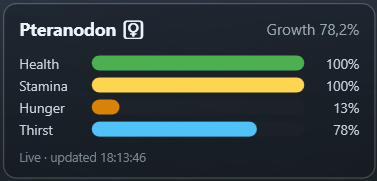
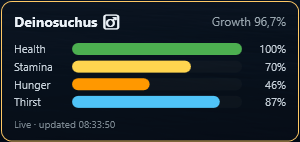
README: new showcase screenshot with per-widget crops
Replace the main screenshot with a v1.15 edit-mode shot showing all
widgets, and cut the stats panel, minimap, prime tracker and control
panel out of it for their sections. Drop the waypoint screenshot.

diff --git a/README.md b/README.md
@@ -9,7 +9,7 @@ It is **fully external**: the only thing it ever does is replay the same authent
 [![Downloads](https://img.shields.io/github/downloads/DavidKatona/PandoraOverlay/total)](https://github.com/DavidKatona/PandoraOverlay/releases)
 [![License: MIT](https://img.shields.io/github/license/DavidKatona/PandoraOverlay)](LICENSE)
 
-![The overlay in-game: stats panel and player-centered minimap while flying a Pteranodon](docs/screenshot.png)
+![The overlay in-game, in edit mode: the Prime tracker docked left, the player-centered minimap and stats panel on the right, and the control panel bottom-center, over a Deinosuchus on a night-time riverbank](docs/screenshot.png)
 
 ## Contents
 
@@ -64,6 +64,9 @@ The pasted cookie is encrypted with **Windows DPAPI** (scoped to your Windows us
 
 - The overlay starts **locked**: click-through, no focus stealing, invisible to Alt-Tab.
 - The edit-mode hotkey (**Ctrl+F7** by default) toggles **edit mode** — the panel borders turn orange, you can drag them anywhere, and a **control panel** appears (bottom-center by default, draggable like everything else) with its buttons in one row, grouped by widget: **Settings**, then **Stats** (Show/hide), **Minimap** (Show/hide, Map view, Heatmap) and **Prime** (Show/hide, Check), and finally **Lock** and **Exit**. The hotkey (or Lock) locks everything back. Positions are remembered, and the panels never change size or move between modes.
+
+  ![The edit-mode control panel: Settings, then the Stats, Minimap and Prime button groups under small captions, Lock and Exit, and the hint line underneath](docs/control-panel.png)
+
 - While dragging, panels **snap** to the screen edges, a small inset from them, and to each other — **guide lines** light up along whatever you snapped to (orange = screen, blue = the other panel). Hold **Alt** while dragging for pixel-perfect free placement.
 - You can't lose a panel off-screen: locking edit mode (or restarting the app) pulls every panel fully back into view — dragging itself stays free, so moving panels to another monitor still works.
 - **Ctrl+F4** hides/shows the whole overlay without quitting — for screenshots and cutscenes; polling continues, and the app always starts visible. **Ctrl+F5** flips the minimap view and **Ctrl+F6** flips the minimap's heatmap layer, both without entering edit mode. All four hotkeys are rebindable in Settings; the defaults deliberately avoid the game's F2 (recording) and F10 (hide HUD), and the quick toggles sit on the nearest keys.
@@ -77,7 +80,7 @@ The pasted cookie is encrypted with **Windows DPAPI** (scoped to your Windows us
 
 ### Stats panel
 
-![The stats panel: dino name and gender, growth, the four stat bars — hunger critical at 13% — and the live status line](docs/stats-panel.png)
+![The stats panel in edit mode: a male Deinosuchus at 96,7% growth, the four stat bars — health, stamina, hunger, thirst — and the live status line](docs/stats-panel.png)
 
 - The stats panel can be **hidden** entirely (control panel → Stats → Show/hide) — the app keeps running from the tray, and hotkeys and the minimap stay live. Its size is adjustable with the "Stats panel scale" slider in Settings.
 
@@ -90,14 +93,16 @@ The pasted cookie is encrypted with **Windows DPAPI** (scoped to your Windows us
 
 ### Minimap
 
+![The minimap in edit mode: the player-centered view of a river delta with the orange player arrow, and the footer showing "centered · 5,22×"](docs/minimap.png)
+
 - The **minimap** is a separate window sharing the same edit mode: drag it independently, show or hide it from the control panel. Your arrow glides between updates and rotates with your facing. It adds zero extra requests — both windows feed off the same poll.
 - Two views, toggled with the control panel's **Map view** button (or **Ctrl+F5** any time): the whole island (default), or **player-centered** (north-up, the map pans under a fixed arrow). In the centered view the mouse wheel zooms (1.25–6×) while in edit mode. Both the view and zoom are remembered (and also editable in Settings), and the footer under the map always shows the active view (and zoom).
 - Right-click the minimap in edit mode to drop a **waypoint** — the footer shows your distance to it, and in the centered view an off-screen marker sticks to the panel edge pointing the way. Right-click the marker to clear it; it survives restarts.
 - **Activity heatmap** (optional, off by default): press **Ctrl+F6** any time, or the control panel's **Heatmap** button, to overlay the server's live heatmap — the same image the website shows, complete with its player-count and timestamp caption — at the website's own 55% blend, in both views. It refreshes every minute while the minimap is visible; the image is public, so your login cookie is never sent for it. Expect the map colors to mute a little while it's on, and if the server disables the heatmap the layer quietly disappears until it returns.
 
-  ![The centered minimap view with the player arrow, a waypoint diamond, and the footer showing "centered · 4× · 733m"](docs/waypoint.png)
-
 ### Prime tracker
+
+![The Prime tracker: "Prime Elder" status, the ten conditions as a ✓/✗ list, and the footer showing "Checked 08:29 · Deinosuchus" with the "next check in 0:43" countdown](docs/prime-tracker.png)
 
 - The **Prime tracker** is a third widget (docked to the left screen edge by default, draggable like the others) showing your Prime status and the server's ten Prime conditions as a ✓/✗ list — the same result as the website's "Prime Check" box. 5 of 10 are needed for Prime.
 - It never checks by itself. Press **Check** in the control panel's Prime group, or **Check Prime status** in the tray menu (which works while locked, mid-game). The server enforces a cooldown between checks — 5 minutes normally, shorter with some supporter ranks — so after each check the overlay asks the server for *your* cooldown, counts it down in the widget, and remembers it across restarts. A click during the cooldown sends nothing. You need to be spawned in for a check to work.
